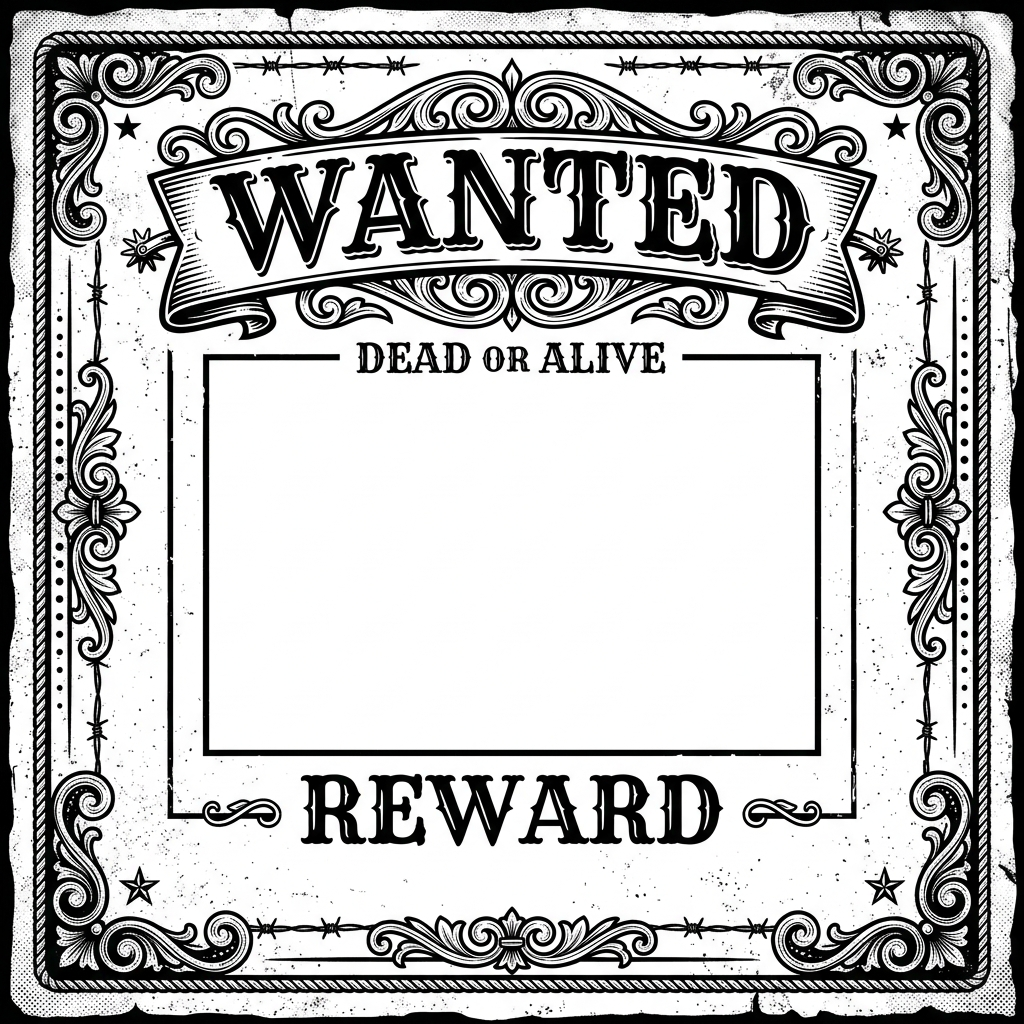
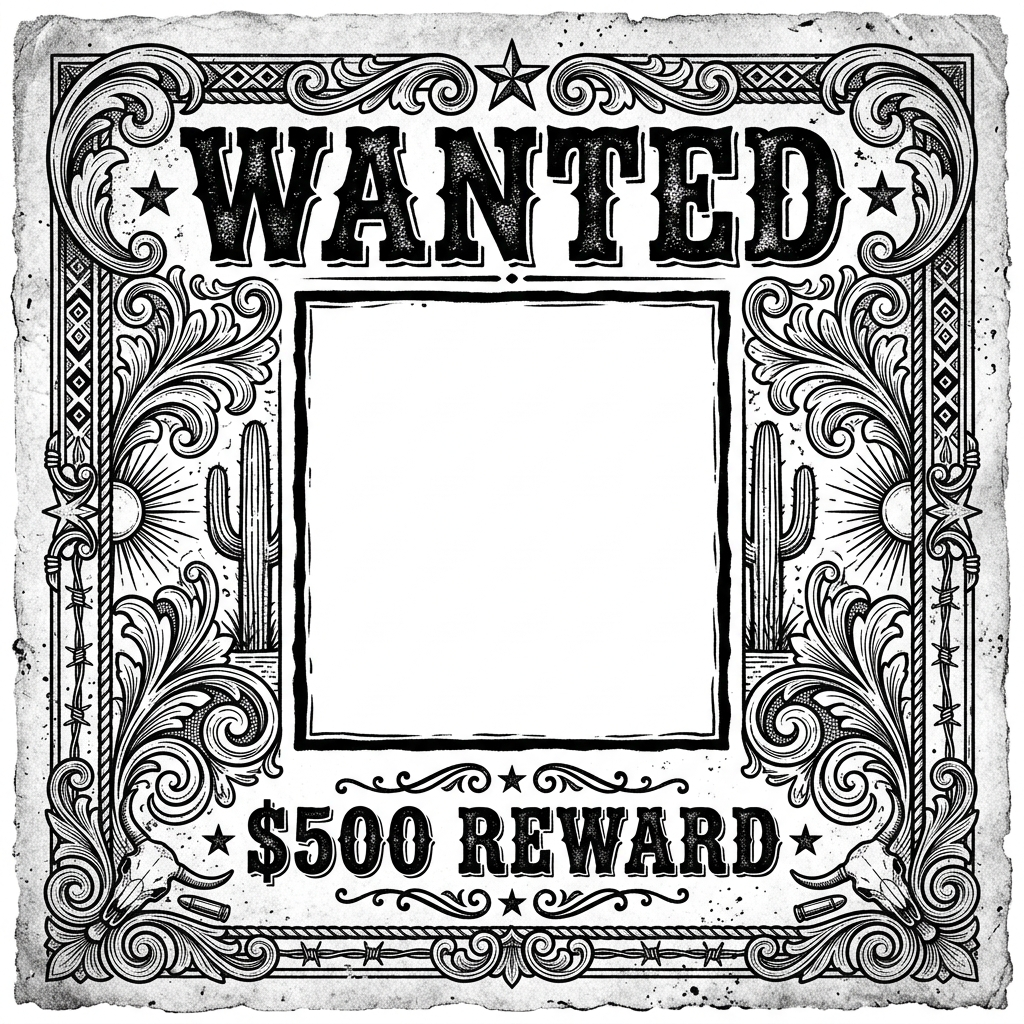
fix: correct photo cropping to fit perfectly inside the WANTED poster bounding box and update poster to ' REWARD'

diff --git a/public/processor.js b/public/processor.js
@@ -54,26 +54,40 @@ function processImage(source, targetCanvas, frameImage) {
     
     const srcWidth = source.width || source.videoWidth || 0;
     const srcHeight = source.height || source.videoHeight || 0;
-    
-    // Guard against uninitialized or zero-dimension source
     if (!srcWidth || !srcHeight) return;
 
+    // Use a fixed 512x512 square canvas for the thermal printer
+    const canvasSize = 512;
     const ctx = targetCanvas.getContext('2d');
-    targetCanvas.width = srcWidth;
-    targetCanvas.height = srcHeight;
+    targetCanvas.width = canvasSize;
+    targetCanvas.height = canvasSize;
     
-    // Draw mirrored source video/canvas
-    ctx.translate(srcWidth, 0);
+    // Fill white background
+    ctx.fillStyle = 'white';
+    ctx.fillRect(0, 0, canvasSize, canvasSize);
+
+    // Calculate source crop for 1:1 aspect ratio (center crop from video)
+    const size = Math.min(srcWidth, srcHeight);
+    const sx = (srcWidth - size) / 2;
+    const sy = (srcHeight - size) / 2;
+
+    // Bounding box for the photo inside the WANTED poster
+    const destX = canvasSize * 0.28;
+    const destY = canvasSize * 0.28;
+    const destW = canvasSize * 0.44;
+    const destH = canvasSize * 0.44;
+
+    // Draw mirrored source video/canvas into the bounding box
+    ctx.save();
+    ctx.translate(destX + destW, destY);
     ctx.scale(-1, 1);
-    ctx.drawImage(source, 0, 0, srcWidth, srcHeight);
-    
-    // Reset transform
-    ctx.setTransform(1, 0, 0, 1, 0, 0);
+    ctx.drawImage(source, sx, sy, size, size, 0, 0, destW, destH);
+    ctx.restore();
 
     // Draw frame overlay BEFORE dithering so frame artwork is dithered along with photo
     if (frameImage && frameImage.complete) {
         ctx.globalCompositeOperation = 'multiply';
-        ctx.drawImage(frameImage, 0, 0, srcWidth, srcHeight);
+        ctx.drawImage(frameImage, 0, 0, canvasSize, canvasSize);
         ctx.globalCompositeOperation = 'source-over';
     }
     

diff --git a/tests/processor.test.js b/tests/processor.test.js
@@ -57,6 +57,9 @@ describe('Image Processing', () => {
     it('should draw frame overlay BEFORE dithering image data', () => {
         const executionOrder = [];
         const fakeCtx = {
+            fillRect: jest.fn(),
+            save: jest.fn(),
+            restore: jest.fn(),
             translate: jest.fn(),
             scale: jest.fn(),
             drawImage: jest.fn((img) => {
@@ -89,8 +92,11 @@ describe('Image Processing', () => {
         expect(executionOrder).toEqual(['drawSource', 'drawFrame', 'getImageData', 'putImageData']);
     });
 
-    it('should support HTMLCanvasElement source using width/height', () => {
+    it('should set canvas size to 512x512 for the thermal printer', () => {
         const fakeCtx = {
+            fillRect: jest.fn(),
+            save: jest.fn(),
+            restore: jest.fn(),
             translate: jest.fn(),
             scale: jest.fn(),
             drawImage: jest.fn(),
@@ -106,7 +112,7 @@ describe('Image Processing', () => {
 
         processImage(fakeSourceCanvas, fakeTargetCanvas, null);
 
-        expect(fakeTargetCanvas.width).toBe(100);
-        expect(fakeTargetCanvas.height).toBe(100);
+        expect(fakeTargetCanvas.width).toBe(512);
+        expect(fakeTargetCanvas.height).toBe(512);
     });
 });

diff --git a/public/styles.css b/public/styles.css
@@ -67,7 +67,7 @@ body {
     position: relative;
     width: 100%;
     max-width: 800px;
-    aspect-ratio: 4 / 3;
+    aspect-ratio: 1 / 1;
     max-height: 55vh; /* Keep it constrained vertically */
     background: #000;
     border: 1.5vmin solid #3b2a1a;
